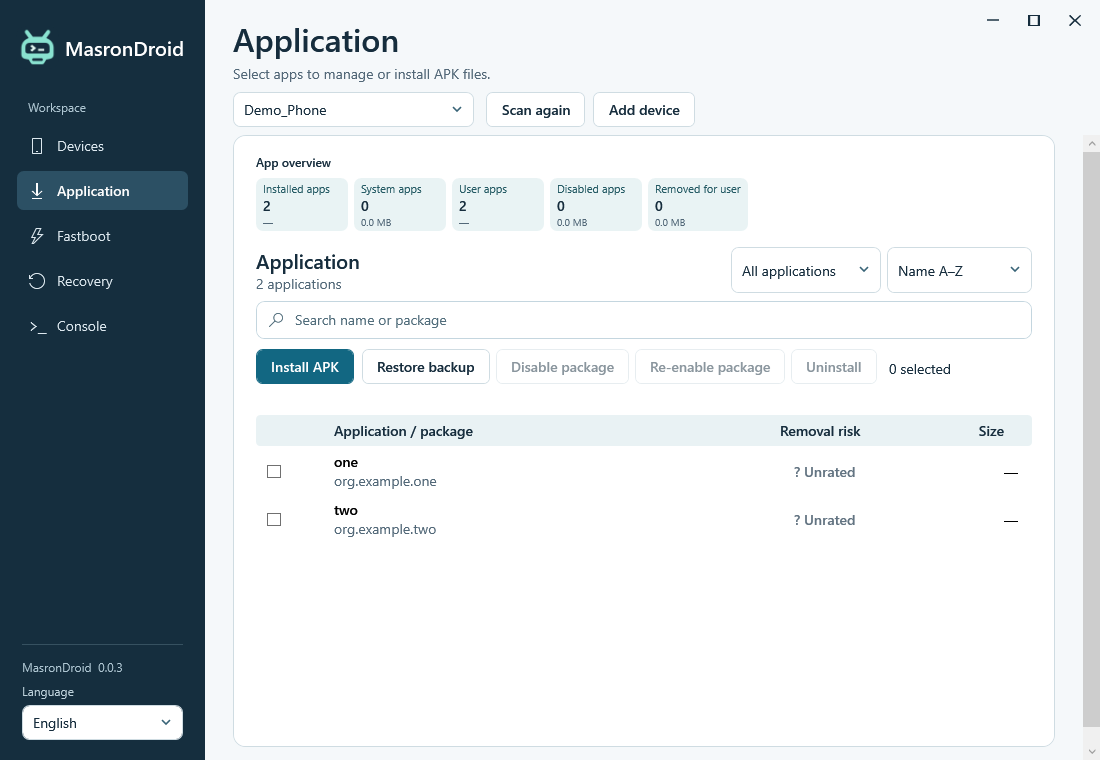
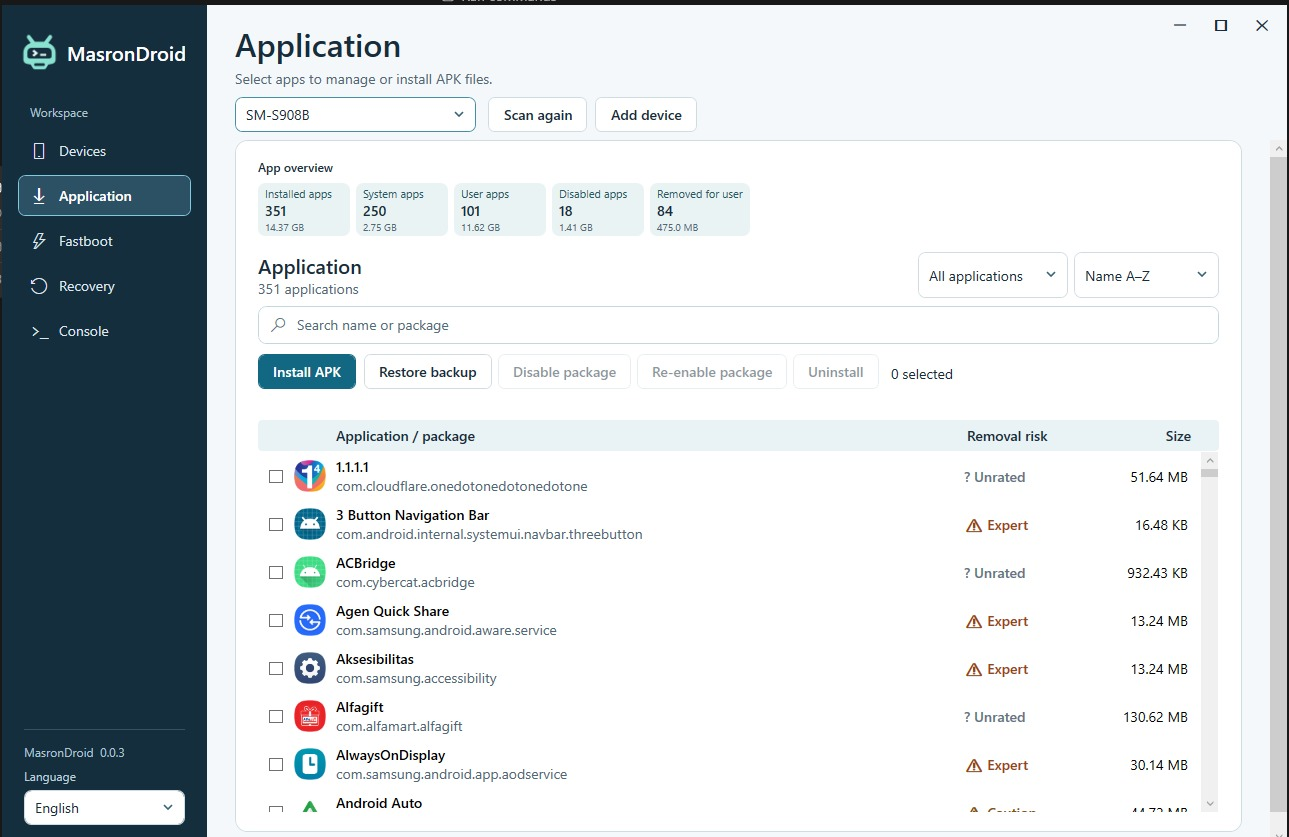
Show connected-device screenshots in the debloat gallery

diff --git a/README.md b/README.md
@@ -42,7 +42,7 @@ ADB and Fastboot come from Google's Android SDK Platform-Tools. Device marketing
 
 ## Screenshots
 
-The screenshots use a simulated phone and sample packages.
+Device, Application, Fastboot, and Recovery are shown on a connected phone. The Console example uses a simulated device.
 
 ### Applications and debloat
 
